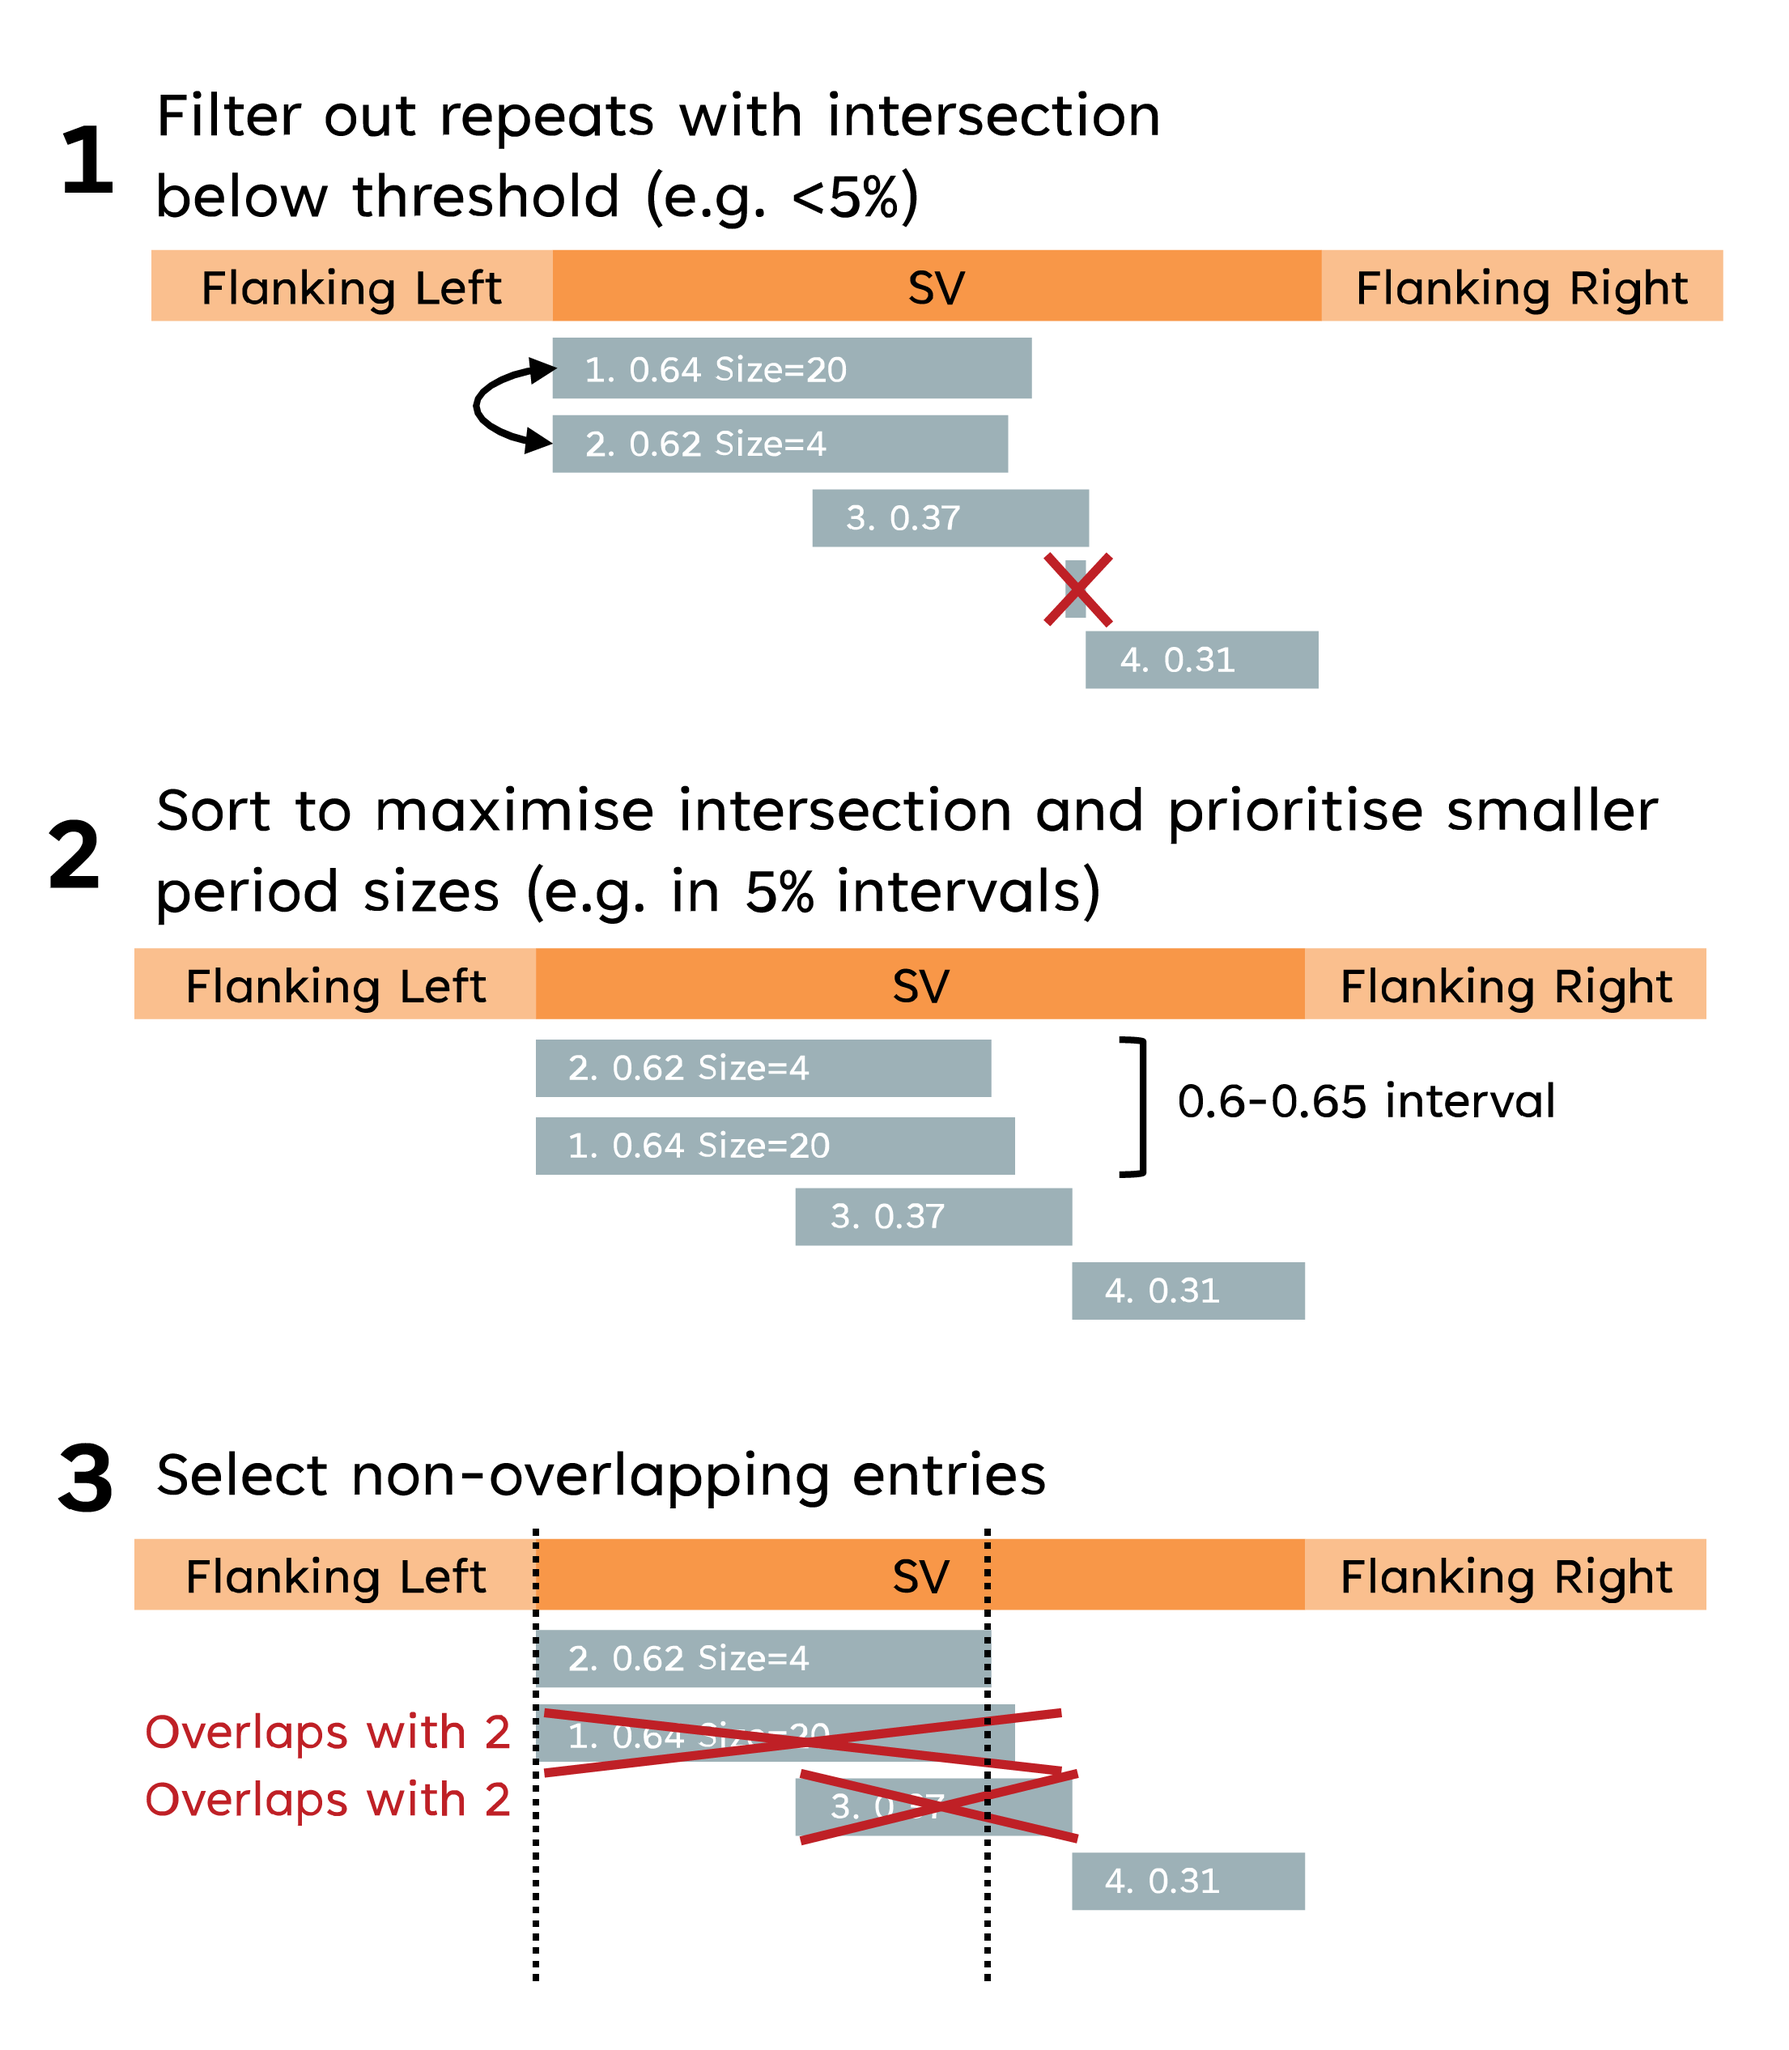
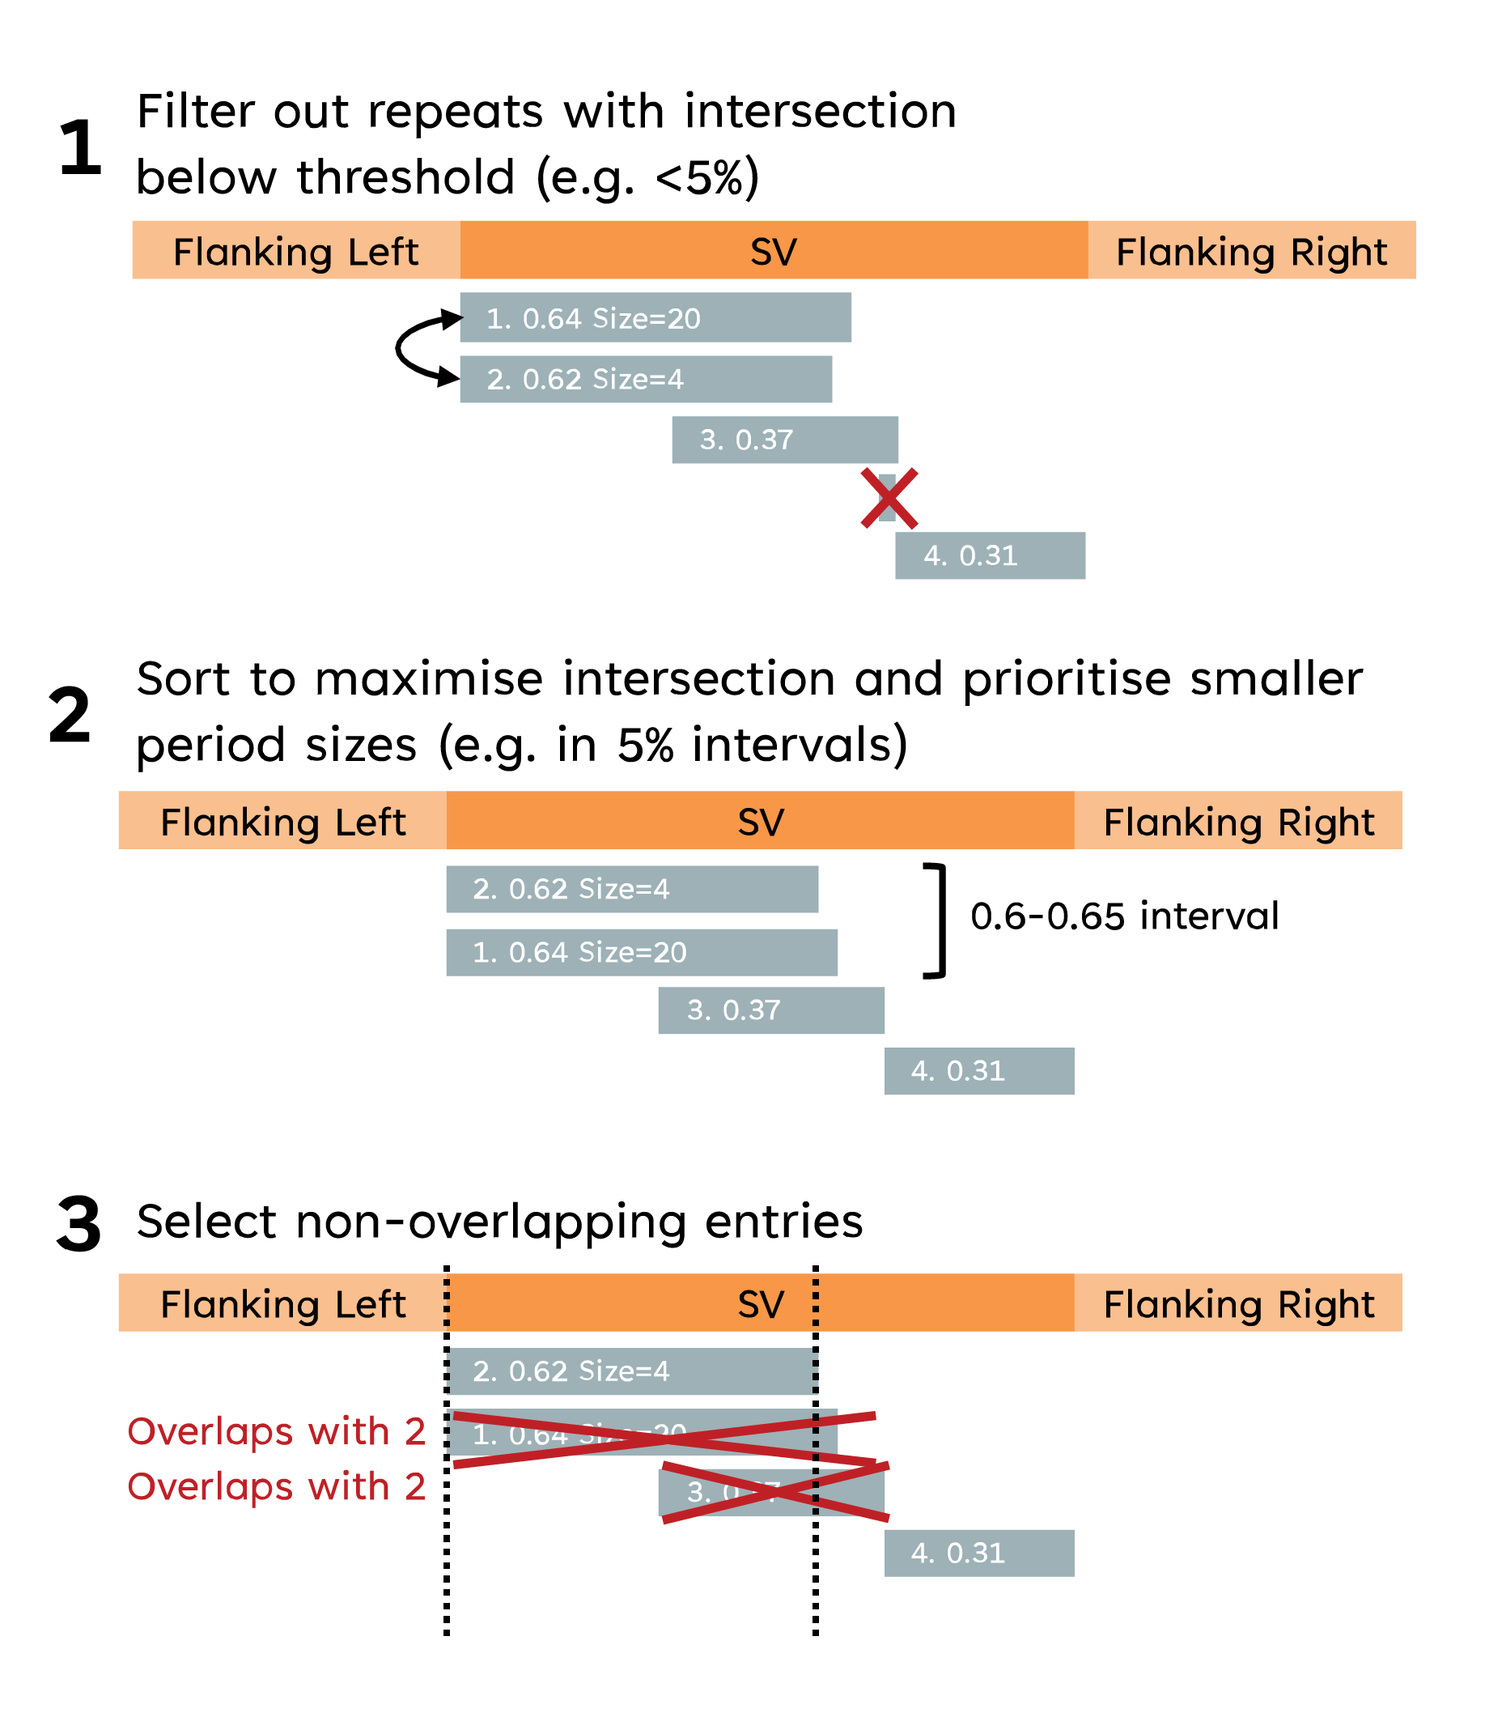
update rm annotation doc

diff --git a/docs/repeat_annotation_steps.md b/docs/repeat_annotation_steps.md
@@ -69,6 +69,8 @@ For **Tandem Repeat Finder (TRF)**, entries are determined by prioritising maxim
 
 
 ## Step 1 (RM)
+For **RepeatMasker (RM)**, entries are determined by prioritising those with maximal intersection between the SV and repeat entry. Entries are grouped into their repeat class (e.g. SINE, LINE) and in order of priority non-overlapping entries are selected within each class. Based on the element coverage and SV coverage, the SV is classified as a Full/Partial RECIPROCAL or Minimal.
+
 1. Go through each row (element) of the `SAMPLE_rm.tab` file.
 
 2. Obtain the element's classification (also known as repeat class), e.g., SINE, LINE, LTR, DNA, Retroposon.
